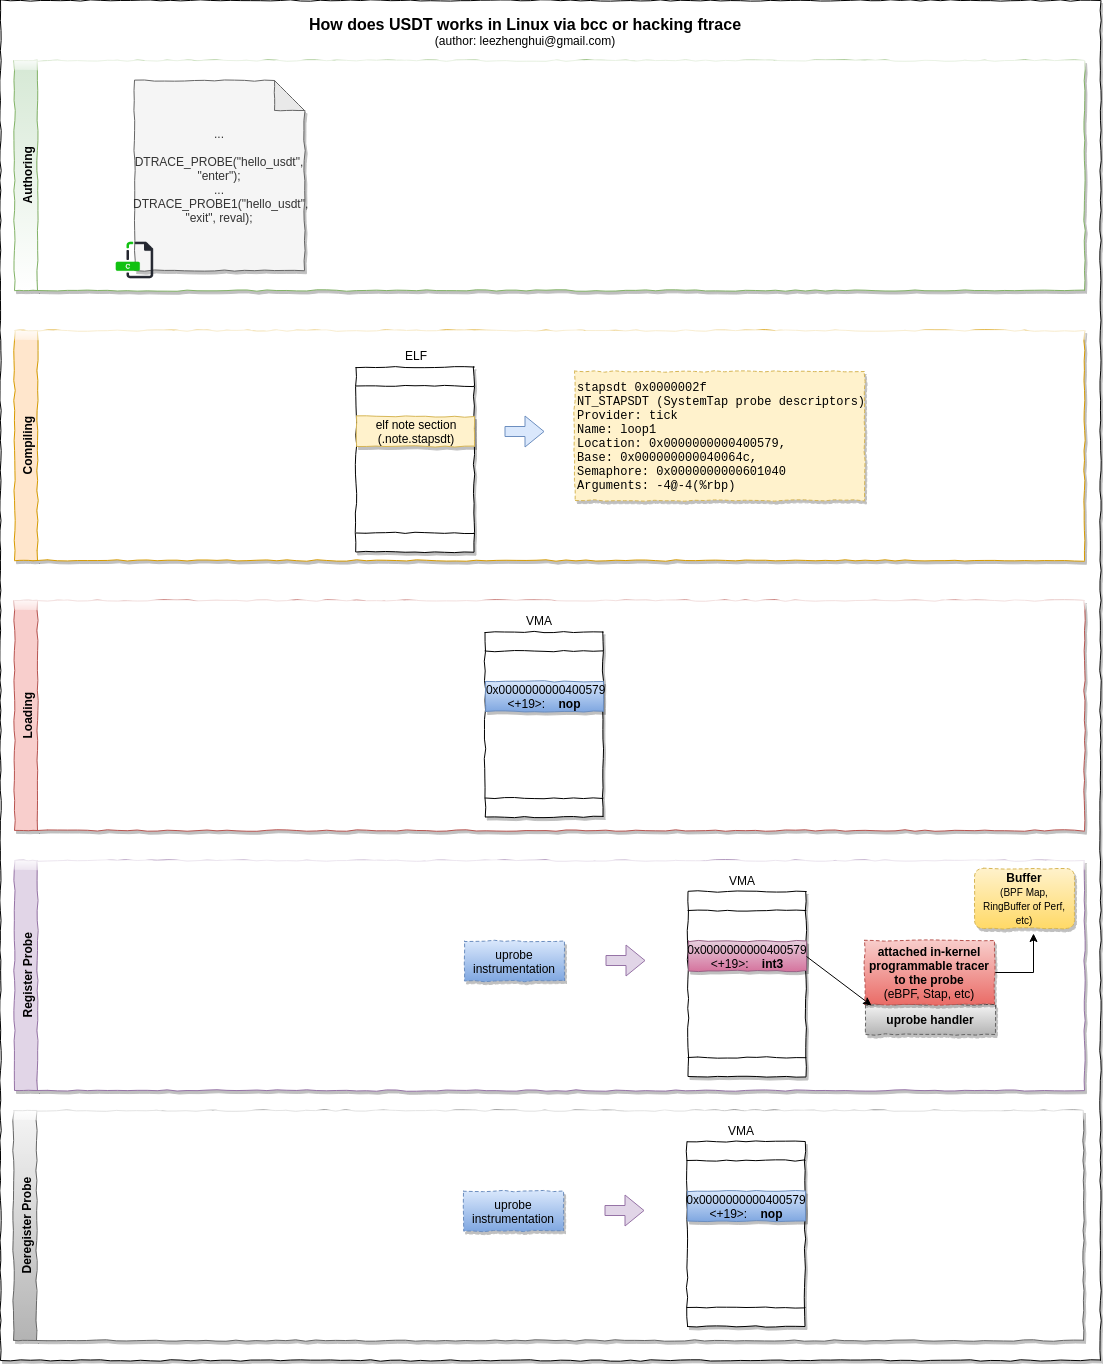
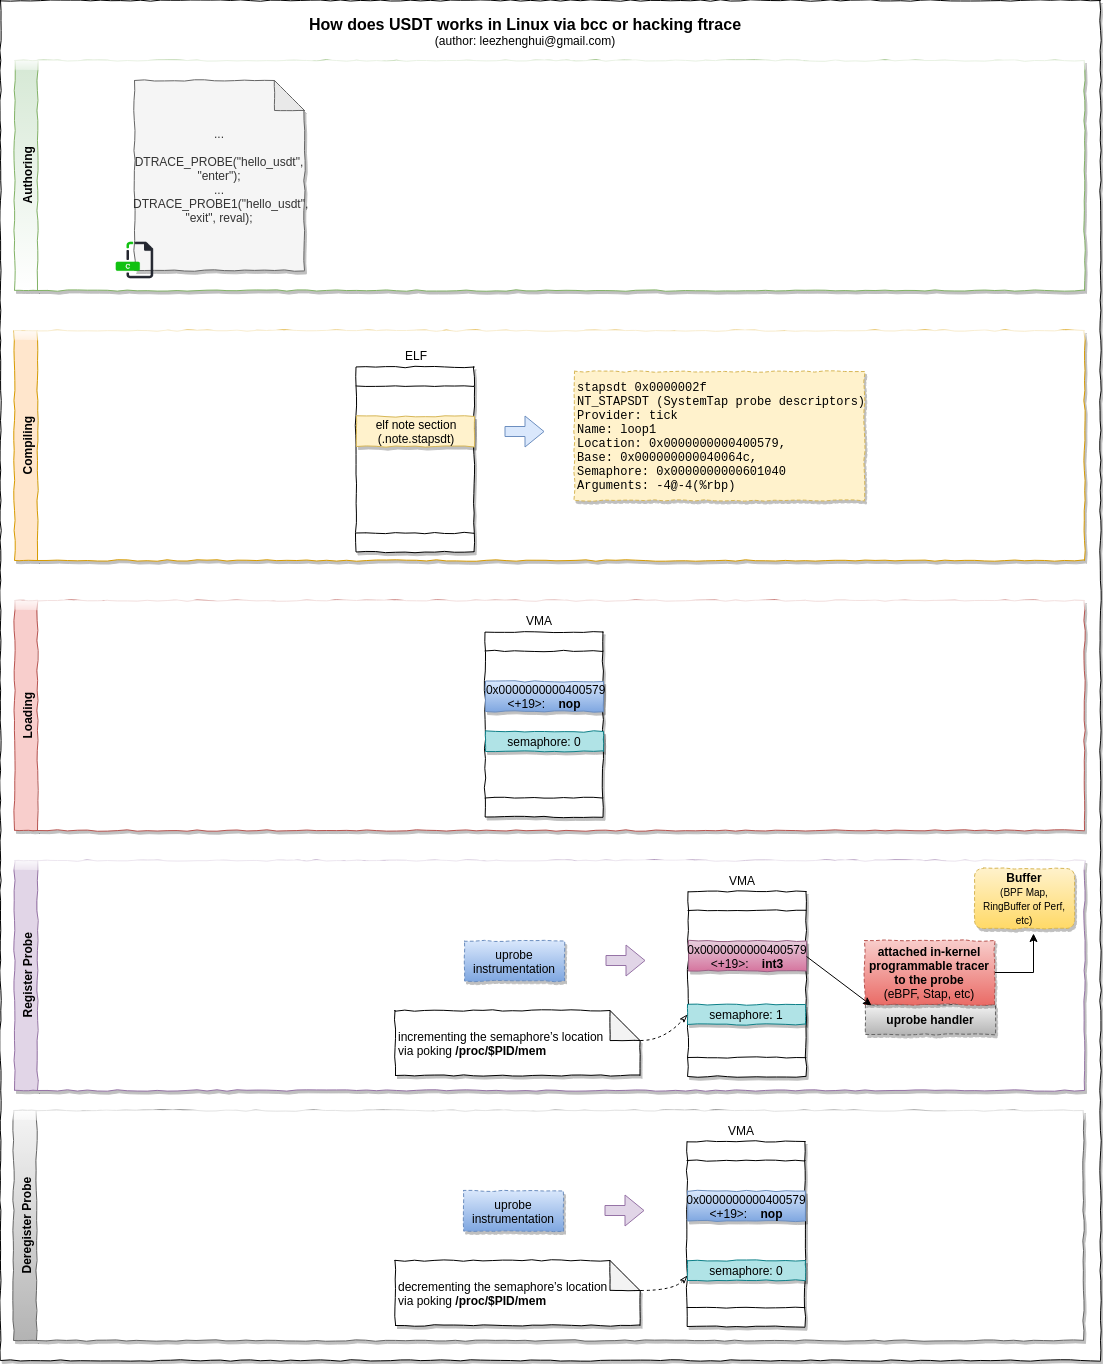
auto udpate by doc builder

diff --git a/_posts/2019-03-05-exploring-usdt-on-linux.md b/_posts/2019-03-05-exploring-usdt-on-linux.md
@@ -358,6 +358,10 @@ The event sources are where the tracing data comes from, tracing framework runni
    > From [dtrace blog](http://dtrace.org/blogs/dap/2011/12/13/usdt-providers-redux/)
    >
    > USDT (Userland Statically Defined Tracing) is the mechanism by which application developers embed DTrace probes directly into an application. This allows users to trace semantically meaningful operations like “request-start”, rather than having to know which function implements the operation. More importantly, since USDT probes are part of the source code, scripts that use them continue working even as the underlying software evolves and the implementing functions are renamed and deleted.
+   
+	 > From [LWN doc](https://lwn.net/Articles/753601/)
+   >
+   > The origins of USDT probes can be found in Sun's DTrace utility. While DTrace can't claim to have invented static tracepoints (various implementations are described in the "related work" section of the original DTrace paper), it certainly made them much more popular. With the emergence of DTrace, many applications began adding USDT probes to important functions to aid with tracing and diagnosing run-time behavior. Given that, it's perhaps not surprising that these probes are usually enabled (as part of configuring the build) with the --enable-dtrace switch. 
 
 ### Inside USDT 
 
@@ -367,9 +371,9 @@ The event sources are where the tracing data comes from, tracing framework runni
 
 - During compilation, the source code with USDT trace point will be translated into a `nop` instruction, in the meanwhile, the USDT metadata will be stored in the ELF's `.note.stapstd` section.
 
-- When register a probe, USDT tool(usually implemented based on `uprobe` under the hood) will read the ELF `.note.stapstd` section, and instrument the instruction from `nop` to `breakpoint`(`int3` on x86) for . So whenever control reaches the marker, the interrupt handler for int3 is called, and by turn the uprobe and attached eBPF program get called in kernel to process the events.
+- When register a probe, USDT tool(usually implemented based on `uprobe` under the hood) will read the ELF `.note.stapstd` section, and instrument the instruction from `nop` to `breakpoint`(`int3` on x86) for . So whenever control reaches the marker, the interrupt handler for int3 is called, and by turn the uprobe and attached eBPF program get called in kernel to process the events. If the USDT probe associated with semaphores, the front-ends need to incrementing the semaphore’s location via poking /proc/$PID/mem to enable the probe.
 
-- After deregister the probe, USDT will instrument the instruction from `breakpoint` back to `nop`, no event get generated anymore.
+- After deregister the probe, USDT will instrument the instruction from `breakpoint` back to `nop`, no event get generated anymore, in the meanwhile, decrementing the semaphore's location to detach the current probe. 
 
 ### Prerequsites(e.g: Ubuntu)
 
@@ -1298,6 +1302,8 @@ And the same for the uretprobe would be:
 > 
 > Add probe calls, via DTRACE_PROBE macros to the source code of the application.  Compile code to object file (*.o) Use dtrace command line tool to convert the object file. This involves stubbing out the assembler function calls, and creating a table in the ELF file enumerating the probes.  Create (link) the application binary, with a special object file (drti.o). drti.o runs before main() and takes the table of probes, and lets the kernel know (via an ioctl() to the dtrace driver) of the probes.  Run the application: drti.o takes control and issues the ioctl() of the probes. Whilst the application is running, you can use "dtrace -l" to see the probes. Probes are a function of the pid provider, so you will see a new suite of probes for each process running with USDT, and as many probes as there are DTRACE_PROBE calls in the source code.  Whilst the application is running, you can use dtrace to monitor these probes at any granularity you like (eg all probes from the process, or specific probes from all such processes).  When a dtrace monitors the probe, the site where the call instruction is placed is modified and an INT3 (breakpoint instruction) is placed at the site of what was the original CALL instruction. When the breakpoint is hit, the dtrace driver takes control and actions the probe. This is very similar to how a kernel FBT probe works, except the breakpoint happened in user space. At the point of breakpoint execution, any D script associated with the probe is invoked. The target application is frozen until the D script completes, allowing it to take a static snapshot of any details it likes. Typically, this might include taking a user stack dump (ustack()).  Terminating a dtrace which is probing the application will remove the breakpoints and restore the NOP instructions.
 
+[^1]: http://www.brendangregg.com/blog/2015-07-08/choosing-a-linux-tracer
+
 [^2]: https://jvns.ca/blog/2017/07/05/linux-tracing-systems
 
 [^3]: http://nova.polymtl.ca/~suchakra/eBPF-5May2017.pdf
@@ -1333,3 +1339,10 @@ And the same for the uretprobe would be:
 [^18]: https://www.slideshare.net/goldshtn/modern-linux-tracing-landscape-66299948 
 
 [^19]: https://github.com/dtrace4linux/linux/blob/master/doc/usdt.html
+
+[^20]: https://dzone.com/articles/next-generation-linux-tracing 
+
+[^21]: http://www.joelfernandes.org/linuxinternals/2018/02/10/usdt-notes.html 
+
+[^22]: https://lwn.net/Articles/753601/ 
+
